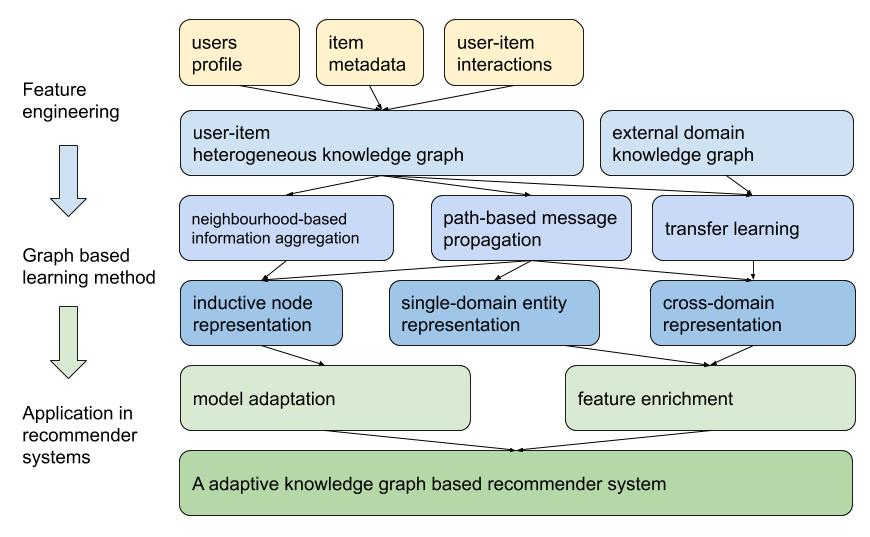
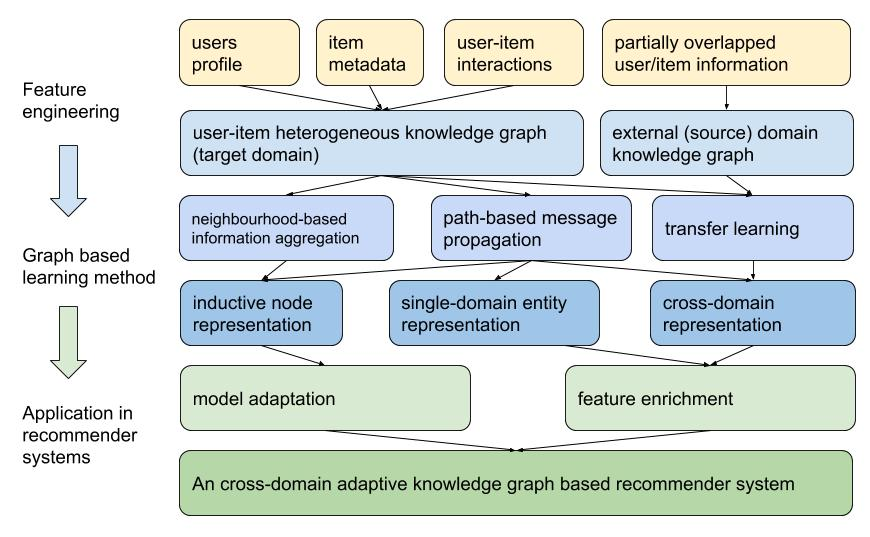
update graph

diff --git a/_1_introduction.tex b/_1_introduction.tex
@@ -1,18 +1,16 @@
 %!TEX root = main.tex
 
 \section{Introduction and background}
-Recommender system (RS) is an indispensable technology, it evolves around our everyday life on multiple fronts. Recommender system help us to find personalized interests from information overloads \citep{Lu2015}. It can act as a decision assisting agents to simplify or accelerate decision making process. Further more, as we experiencing the exponential growth of data content, RS keeps us updated on new emerging information.
-Over the years, we see RS being adopted across different industries. At the same time, we noticed that, bringing a RS into real-world application often faces many different challenges. 
+Recommender system is an indispensable technology, it evolves around our everyday life on multiple fronts. It helps us to find personalized interests from information overloads \citep{Lu2015}. It can act as a decision assisting agents to simplify or accelerate decision making process. Further more, as we experiencing the exponential growth of data content, recommender system keeps us updated on information that matters to us the most.
+Over the years, we see recommender system being adopted across different industries. At the same time, we noticed that, bringing a recommender system into real-world application often faces many different challenges. 
 
-Recommender systems exists long before computer was invented. Catalogs can be considered a one of the most primitive content-based recommender systems. In 2006, 100 million datasets were released by Netflix \citep{Bennett2007} The action expedited the research on collaborative filtering (CF). Over a decade, matrix factorization based approach is still at the forefront of recommender systems field. Being overwhelmingly popular, its success is not only due to its effectiveness, but also thanks to its simplicity \citep{Amatriain2016}, despite of having known issue with data sparsity and cold start problems. Many new approaches and extensions had been evolved based on collaborative filtering to tackle its computation challenges and data sparsity problems. 
+Recommender systems exists long before computer was invented. Catalogs can be considered a one of the most primitive content-based recommender systems. In 2006, 100 million datasets were released by Netflix \citep{Bennett2007} The action expedited the research on collaborative filtering (CF). Over a decade, matrix factorization based approach is still at the forefront of recommender systems field. Being overwhelmingly popular, its success is not only due to its effectiveness, but also thanks to its simplicity \citep{Amatriain2016}, despite of having known issue with data sparsity and cold start problems. 
+% Many new approaches and extensions had been evolved based on collaborative filtering to tackle its computation challenges and data sparsity problems. 
+Transfer Learning \citep{Pan2010} in cross-domain recommender system is another promising area which allowing recommendation possible in when initial user interaction data is scarce in target domains. \citet{Elkahky2015} experimented this approach on multiple Microsoft products, and concluded multi domain recommender system significantly outperforms single domain recommender systems.  
 
-Transfer Learning \citep{Pan2010} in cross-domain recommender system is another promising area which allowing recommendation possible in when initial user interaction data is scarce in target domains. \citet{Elkahky2015} experimented this approach on multiple Microsoft products, and concluded multi domain recommender system significantly outperforms single domain recommender systems. 
+Based on research observation, when bringing a new recommender systems into production, the project is commonly challenged by many aspects. One common early stage challenge is data sparsity. Which, consequently, makes the recommender systems more prone to cold start problems, resulting sub-optimal prediction, and frequent model retrain for adjusting to un-trained data input. In order to ensure a successful project launch, there are 2 areas requires research attention. First, feature enrichment approaches, especially under the condition when data resources is limited. Second, designing an adaptive recommender systems, that is more accommodating to new information, and resilient to cold start scenario. 
 
-% Based on research observation, bringing a new recommender system to market need to overcome a number challenges. Such as, How to maximize information utilization from available dataset? How to make recommendation model prediction ability less depended on training data? How to enrich exiting data from a available external domain source. Besides algorithm and statistical analytics, a systematic approach is required for handling the limited data resources in the early stages of recommender system setting up . 
-
-Based on research observation, when bringing a new recommender systems into production, the project is commonly challenged by many aspects. One common early stage challenge is data sparsity. Which, consequently, makes the recommender systems more prone to cold start problems, resulting sub-optimal prediction, and frequent model retrain for adjusting to un-trained data input. In order to ensure a successful project launch, there are 2 areas requires research attention. First, feature enrichment approaches, especially under the condition when data resources is limited. Second, designing a adaptive recommender systems, that is more accommodating to new information, and resilient to cold start scenario. 
-
-In this research, we consider knowledge graph as a heterogeneous information network. Living in a world of information, the data entities around us are mostly interconnected with each other and be formed into an information network. Recent development from \citet{qin2020survey}, \citet{wang2018ripplenet}, and \citet{xi2020graph} have shown a lot of potential from the knowledge graph, which can help in developing generic recommendation framework for solving challenges stated above. Besides algorithm and statistical analytics, our aim is to propose a unified single end-to-end framework to ease the barrier of recommender system launch.
+In this research, we consider knowledge graph as a heterogeneous information network. Living in a world of information, the data entities around us are mostly interconnected with each other and be formed into an information network. Recent development from \citet{qin2020survey}, \citet{wang2018ripplenet}, and \citet{xi2020graph} have shown a lot of potential from the knowledge graph, which can help in developing generic recommendation framework for solving challenges stated above. Besides algorithm and statistical analytics, our aim is to propose a unified end-to-end framework to ease the barrier of recommender system launch.
 
 
 This study will focusing on leverage knowledge graph to improve recommender systems prediction capability and results. The rest of this report is organized as follows: 

diff --git a/_2_questions_objectives_outcome.tex b/_2_questions_objectives_outcome.tex
@@ -6,12 +6,12 @@ Recommender systems predicts user-item interests by learning historical interact
 To be more specific, recommender system often faces data sparsity problem in its early launching stage due to the lack of historical interactions. 
 Subsequently, many recommender system also experience the limitation on new emerging data at post training stage, which known as cold start. 
 
-In this research, we explore the transfer learning application on cross-domain knowledge graphs to reduce the launching barriers for recommender system on early stage. Then, we leverage the rich semantic information of knowledge graph to build a adaptive recommender system for better quality prediction in cold start settings. 
+In this research, we explore the transfer learning application on cross-domain knowledge graphs to reduce the launching barriers for recommender system on early stage. Then, we leverage the rich semantic information of knowledge graph to build an adaptive recommender system for better quality prediction in cold start settings. 
 
 \subsection{Questions}
 
 \subsubsection*{Question 1}
-How to represent users and items in a unified knowledge graph with user-item interactions and meta data for recommender system?
+How to represent users and items in a unified knowledge graph with user-item interactions and metadata for recommender system?
 
 \subsubsection*{Question 2}
 How to develop a recommender system that is adaptive to new data overtime?
@@ -31,7 +31,7 @@ In this objective, by leveraging the heterogeneous graph, user-item interactions
 
 
 \bigskip
-\textbf{Objective 2:} To develop a recommendation approach for making predictions on newly emerged data points. (Aim to answer question 2)
+\textbf{Objective 2:} To develop a inductive recommendation method for newly emerged data points. (Aim to answer question 2)
 
 Commonly, recommender systems use user/item latent feature for prediction, which were trained on static datasets. For new item or user that appeared post training, their latent feature would not be known until being included in the later re-training. It is known as cold start problem.
 
@@ -44,7 +44,7 @@ In this study, we aim to develope a recommender system that is capable of making
 Subsequent to object 1 and 2, the single domain recommender system frequently suffers from data sparsity problems in its early launching phrase. In order to alleviate the issue and assure prediction quality, our research tries to develop a knowledge transfer method, which improves data density by transferring learnings from a similar but denser domain through the knowledge graph. So that, the recommender system can make high quality predictions early on.
 
 \bigskip
-\textbf{Objective 4:} To develop a adaptive recommender system case study for validating the proposed approaches. (Aim to answer question 1,2,3)
+\textbf{Objective 4:} To develop an adaptive recommender system case study for validating the proposed approaches. (Aim to answer question 1,2,3)
 
 By putting research results from Objective 1,2,3 into a holistic framework. It would enable us to develop a generic approach and making recommendation model adapting to data changes. Such system would significantly ease the "bring to market" effort, improve prediction quality and reduce the maintenance cost over time. 
 
@@ -60,8 +60,16 @@ Following common datasets will be used for method verification:
 
 \end{itemize}
 
+a research overview can be depict as Fig. \ref{fig:r_overview} below
+\begin{figure*}[!h]
+    \centering
+    \includegraphics[width=0.99\textwidth]{figs/research_overview.jpg}
+    \caption{overview of research perspective}\label{fig:r_overview}
+\end{figure*}
+
+
 Based on research questions and objectives above, the following outcomes are expected:
-1) A recommender system framework for dealing with cold start and data sparsity problem; 
-2) A knowledge graph based recommendation model and relevant algorithms adaptive for making prediction on unseen data;
+1) A recommender system framework for dealing with cold start and data sparsity problem;
+2) A knowledge graph based adaptive recommendation model and relevant algorithms for making prediction on unseen data;
 3) A recommendation method to give more accurate recommendations by leveraging external domain knowledge;
 4) Several high quality papers and a PhD thesis.

diff --git a/_5_methodology_tasks.tex b/_5_methodology_tasks.tex
@@ -10,7 +10,7 @@
 
 \subsection*{Task 1: propose a framework to form a unified knowledge graph to accommodate both user/item profile and interactions}
 
-Here, we propose to form a heterogeneous knowledge graph based recommendation framework that accommodate item/user profile information besides interactions records as illustrated in Fig \ref{fig:framework}. We explore the semantic information of the graph structure to improve the data density, and improve model adaptiveness.
+Here, we propose to form a heterogeneous knowledge graph based recommendation framework that accommodate item/user profile information besides interactions records as illustrated in Fig \ref{fig:framework}. We explore the semantic information of the graph structure to improve the data density and model adaptiveness.
 
 \begin{figure*}[!h]
     \centering
@@ -18,7 +18,8 @@ Here, we propose to form a heterogeneous knowledge graph based recommendation fr
     \caption{framework overview}\label{fig:framework}
 \end{figure*}
 
-Firstly, we use side information to crate a knowledge graph. The knowledge graph node can either be item or important feature entities based on data exploration and analytics. Same process applies to the user side, i.e. profile information. In the end, we would have 2 heterogeneous knowledge graph, based on users and items perspectively. Illustrated as G1 and G2 in Fig \ref{fig:ikgraph}.
+Next, based on the proposed framework, we from the user-item heterogeneous knowledge by unifying user profile, item feature, and user-item interactions into single graph.
+Step 1, we use side information to crate user and item knowledge graphs. The node inside graph can either be item or important feature entities based on data exploration and analytics. Same process applies to the user side, i.e. profile information. In the end, we would have 2 heterogeneous knowledge graph, based on users and items perspectively as illustrated as G1 and G2 in Fig \ref{fig:ikgraph}.
 
 \begin{figure*}[!h]
     \centering
@@ -26,9 +27,9 @@ Firstly, we use side information to crate a knowledge graph. The knowledge graph
     \caption{G1:user knowledge graph, G2:item knowledge graph, G3:user-item bipartite graph}\label{fig:ikgraph}
 \end{figure*}
 
-Next we treat user-item interactions as a bipartite graph, as G3 in Fig \ref{fig:ikgraph}. This way user and item nodes in G1 and G2 are now connected with G3 via "interaction" edges. After this step, we get a unified heterogeneous knowledge graph which contains both user/item feature information as well as interactions.
+Consequently, we treat user-item interactions as a bipartite graph (as G3 Fig \ref{fig:ikgraph}). As a result, user and item nodes in G1 and G2 are now connected by G3 via "interaction" edges. After this step, we get a unified heterogeneous knowledge graph which contains both user/item feature information as well as interactions.
 
-As a result, such heterogeneous graph structure is open and capable of establish connections to new incoming data points. This leads to adaptiveness when handling cold start problem, which we will cover in task 3.
+As a result, the new data coming into the network can establish relationship to other exiting nodes via different edge types. The rich semantic heterogeneous graph structure, also allow information to be propagated and aggregated through different pathways, enable entity information can be learnt or generate through different connections.
 
 
 \subsection*{Task 2: Propose a method to leverage user/item representation with heterogeneous knowledge graph}
